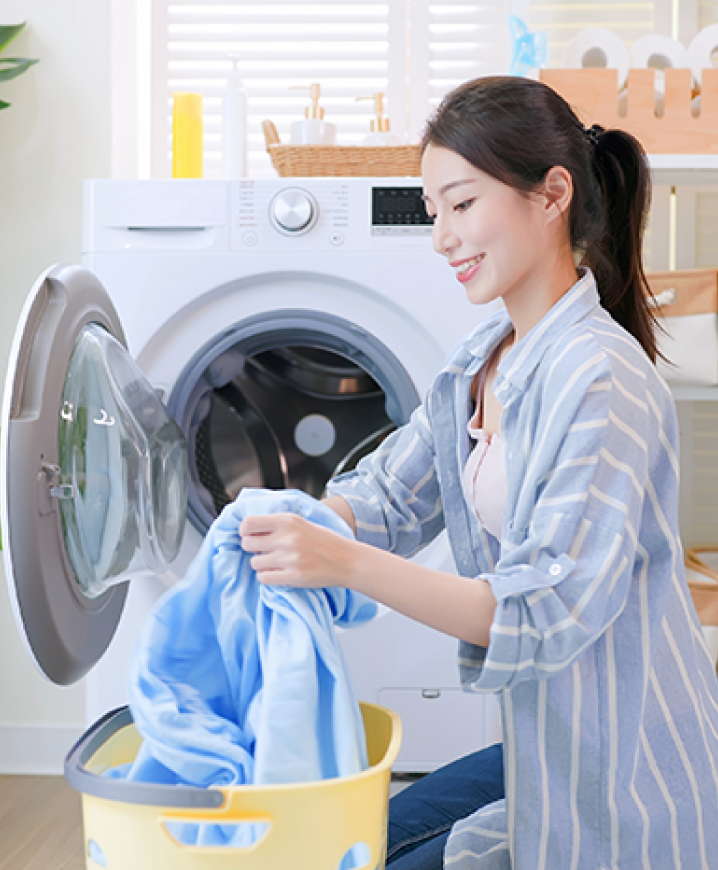
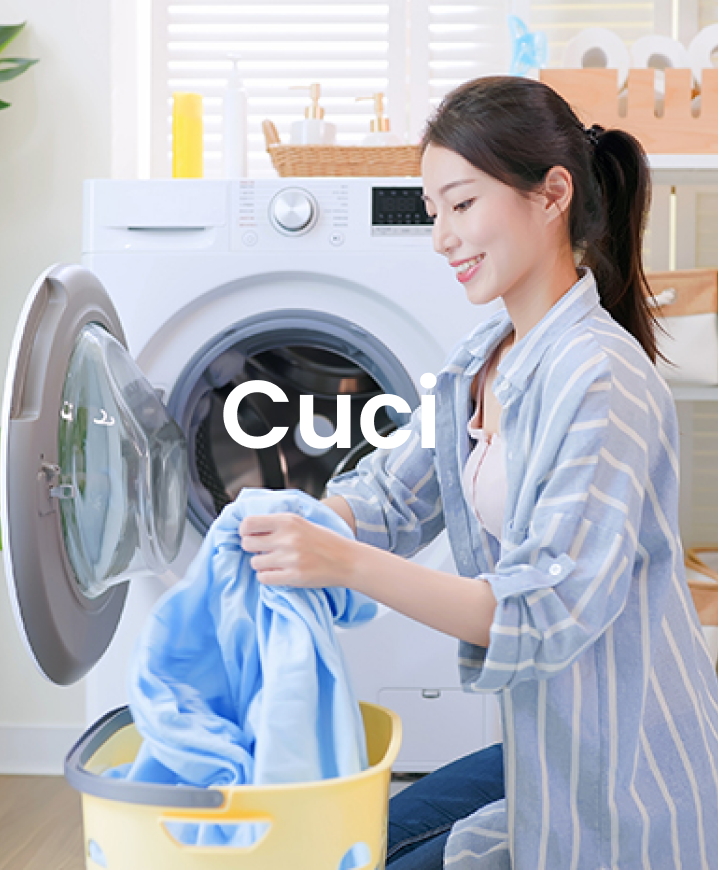
update index

Changed region(s): [[0.3064, 0.4034, 0.6128, 0.5276]]

diff --git a/index/index.html b/index/index.html
@@ -18,12 +18,12 @@
           <a class="navbar-brand" href="#">
             <img class=""src="logo-black.png" alt="logo-utama" id="logoutama">
           </a>
-          <button class="navbar-toggler" type="button" data-bs-toggle="collapse" data-bs-target="#navbarSupportedContent" aria-controls="navbarSupportedContent" aria-expanded="false" aria-label="Toggle navigation">
+          <button class="navbar-toggler" type="button" data-toggle="collapse" data-target="#navbarNav" aria-controls="navbarNav" aria-expanded="false" aria-label="Toggle navigation">
             <span class="navbar-toggler-icon"></span>
           </button>
-          <div class="collapse navbar-collapse mr-3" id="navbarNav">
+          <div class="mr-3 collapse navbar-collapse" id="navbarNav">
             <ul class="navbar-nav ms-auto">
-              <li class="nav-item ms-">
+              <li class="nav-item">
                 <a class="nav-link active" aria-current="page" href="#">Beranda</a>
               </li>
               <li class="nav-item">
@@ -56,33 +56,30 @@
         </div>
       </section>
 
-      <section class="services section-padding" id="services">
-        <div class="container">
-          <div class="row">
-            <div class="col-4 col-md-12 col-lg-4" style="padding-left:1px; padding-right: 1px;">
-              <div class="card text-white text-center pb-2 border-0">
-                <div class="card-body">
-                  <div class="img-area"><img alt="" class="" src="logo-cuci.png">
-                    <p>Cuci</p>
+      <section class="services section-padding" id="services" style="margin-top: 86px;">
+        <div class="container" style="">
+          <div class="row justify-content-center">
+            <div class="col-6 col-md-4 col-lg-4" style="max-width: 220px;">
+                <div class="card-body smallsect rounded">
+                  <div class="img-area"><img alt=""  src="logo-cuci.png">
+                    <p class="smallsect-text" style="display: inline-block;">Cuci</p>
                   </div>
                 </div>
-              </div>
             </div>
-            <div class="col-4 col-md-12 col-lg-4" style="padding-left:1px; padding-right: 1px;">
-              <div class="card text-white text-center pb-2 border-0">
-                <div class="card-body">
-                  <div class="img-"><img alt="" class="" src="logo-setrika.png">
-                  <p>Setrika</p></div>
+            <div class="col-6 col-md-4 col-lg-4" style="max-width: 220px;">
+                <div class="card-body smallsect rounded  ">
+                  <div class="img-area"><img alt="" src="logo-setrika.png">
+                  <p class="smallsect-text"style="display: inline-block;">Setrika</p></div>
                 </div>
-              </div>
             </div>
-            <div class="col-4 col-md-12 col-lg-4" style="padding-left:1px; padding-right: 1px;">
-              <div class="card text-black text-center pb-2 border-0">
-                  <div class="card-body">
-                    <img alt="card3" class="img-left" src="logo-lengkap.png">
-                    <p>Lengkap</p>
+            <div class="col-6 col-md-4 col-lg-4"  style="max-width: 220px;">
+                  <div class="card-body smallsect rounded ">
+                    <div class="img-area">
+                      <img alt="card3" src="logo-lengkap.png">
+                    <p class="smallsect-text" style="display: inline-block;">Lengkap</p>
+                    </div>
                   </div>
-                </div>
+                
               </div>
             </div>
           </div>
@@ -94,9 +91,9 @@
 
 
 
-      <section class="services section-padding" id="services">
+      <section class="services section-padding" id="services" style="margin-top: 140px; margin-bottom: 200px;">
         <div class="container">
-          <div class="row" style="margin-bottom: 70px;">
+          <div class="row" style="margin-bottom: 20px;">
             <div class="col-md-12">
               <div class="section-header pb-5">
                 <h2 class="lg:text-start text-center">Jenis Jasa Yang Di Inginkan
@@ -104,39 +101,30 @@
               </div>
             </div>
           </div>
-          <div class="row">
-            <div class="col-4 col-md-12 col-lg-4" style="padding-left:1px; padding-right: 1px;">
+          <div class="row justify-content-centerimage.png" style="">
+            <div class="col-4 col-md-4 col-lg-4" style="padding-left:1px; padding-right: 1px;">
               <div class="card text-white text-center pb-2 border-0">
                 <div class="card-body">
                   <div class="img-area">
-                    <img alt="" class="img-fluid rounded" src="card1.png">
-                    <div class="card-over-text fs-4">
-                      Cuci
-                    </div>
+                    <img alt="card1" class="img-fluid rounded" src="card1.png">
                   </div>
                 </div>
               </div>
             </div>
-            <div class="col-4 col-md-12 col-lg-4" style="padding-left:1px; padding-right: 1px;">
+            <div class="col-4 col-md-4 col-lg-4" style="padding-left:1px; padding-right: 1px;">
               <div class="card text-white text-center pb-2 border-0">
                 <div class="card-body">
                   <div class="img-area">
-                    <img alt="" class="img-fluid rounded" src="card2.png">
-                    <div class="card-over-text fs-4">
-                      Setrika
-                    </div>
+                    <img alt="card2" class="img-fluid rounded" src="card2.png">
                   </div>
                 </div>
               </div>
             </div>
-            <div class="col-4 col-md-12 col-lg-4" style="padding-left:1px; padding-right: 1px;">
+            <div class="col-4 col-md-4 col-lg-4" style="padding-left:1px; padding-right: 1px;">
               <div class="card text-white text-center pb-2 border-0">
                 <div class="card-body">
                   <div class="img-area area3">
                     <img alt="card3" class="img-fluid rounded" src="card3.png">
-                    <div class="card-over-text fs-4">
-                      Lengkap
-                    </div>
                     </div>
                   </div>
                 </div>
@@ -146,14 +134,14 @@
         </div>
       </section>
 
-      <section id="home2" class="mt-3 container">
+      <section id="home2" class="mt-3 container" style="margin-top: 5-rem;">
         <div class="container-fluid px-0 mid-banner">
           <div class="container">
             <div class="row">
-              <div class="col-lg-5 col-md-6 "style="margin-left: 30px;">
-                <h1 class="" >Cara penggunaan aplikasi kami yang sangat mudah</h1>
+              <div class="col-lg-5 col-md-6 "style="">
+                <h1 class="">Cara penggunaan aplikasi kami yang sangat mudah</h1>
                 <div class="mt-4">
-                  <p>
+                  <p class="md:text-center">
                     Aplikasi kami dapat di gunakan dari banyak kalangan karena family friendly, baik dari kalangan muda atau pun tua mudah dalam melakukan pemesanan
                   </p>
                 </div>
@@ -163,7 +151,7 @@
         </div>
       </section>
     
-      <section class="services section-padding" id="services" style="margin-top: 10rem;">
+      <section class="services section-padding" id="services" style="margin-top: 5rem;">
         <div class="container">
           <div class="row">
             <div class="col-md-12">
@@ -215,7 +203,7 @@
         </div>
       </section>
 
-      <section class="services section-padding" id="services" style="margin-top: 10rem;">
+      <section class="services section-padding reviewan" id="services" style="margin-top: 10rem;">
         <div class="container">
           <div class="row">
             <div class="col-md-12">
@@ -229,7 +217,7 @@
             <div class="col-12 col-md-12 col-lg-4">
               <div class="card text-black text-center pb-2 border-0">
                 <div class="card-body">
-                  <h3 class="text-middle">
+                  <h3 class="mainreview">
                     Apa Kata Banyak Orang Mengenai Aplikasi Kami
                   </h3>
                 </div>
@@ -288,64 +276,8 @@
               </div>
             </div>
           </div>
-          <div class="row">
-            <div class="col-4 col-md-12 col-lg-4 shadow-sm">
-              <div class="card profilecard text-black text-center pb-2 border-0">
-                
-                <img alt="" class="card-profile" src="harrel.png">
-                  
-                <div class="card-body text-center">
-                  <div class="name-job-review text-center">
-                    <p class="font-weight-bold mb-0">Xingfutang</p>
-                    <p class="font-weight-bold">Senior Developer</p>
-                  </div>
-                  <p te>
-                    ytta
-                  </p>
-                </div>
-                
-              </div>
-            </div>
-
-            <div class="col-4 col-md-12 col-lg-4 shadow-sm">
-              <div class="card profilecard text-black text-center pb-2 border-0">
-                
-                <img alt="" class="card-profile" src="harrel.png">
-                  
-                <div class="card-body text-center">
-                  <div class="name-job-review text-center">
-                    <p class="font-weight-bold mb-0">Xingfutang</p>
-                    <p class="font-weight-bold">Senior Developer</p>
-                  </div>
-                  <p te>
-                    ytta
-                  </p>
-                </div>
-                
-              </div>
-            </div>
-
-            <div class="col-4 col-md-12 col-lg-4 shadow-sm">
-              <div class="card profilecard text-black text-center pb-2 border-0">
-                
-                <img alt="" class="card-profile" src="harrel.png">
-                  
-                <div class="card-body text-center">
-                  <div class="name-job-review text-center">
-                    <p class="font-weight-bold mb-0">Xingfutang</p>
-                    <p class="font-weight-bold">Senior Developer</p>
-                  </div>
-                  <p te>
-                    ytta
-                  </p>
-                </div>
-                
-              </div>
-            </div>
-
-          </div>
           <div class="row justify-content-center gap-3">
-            <div class="col-3 col-md-12 col-lg-4 shadow-sm">
+            <div class="col-3 col-md-3 col-lg-2 shadow rounded">
               <div class="card profilecard text-black text-center pb-2 border-0">
                 
                 <img alt="" class="card-profile" src="harrel.png">
@@ -362,7 +294,8 @@
                 
               </div>
             </div>
-            <div class="col-3 col-md-12 col-lg-4 shadow-sm">
+
+            <div class="col-3 col-md-3 col-lg-2 shadow">
               <div class="card profilecard text-black text-center pb-2 border-0">
                 
                 <img alt="" class="card-profile" src="harrel.png">
@@ -372,14 +305,71 @@
                     <p class="font-weight-bold mb-0">Xingfutang</p>
                     <p class="font-weight-bold">Senior Developer</p>
                   </div>
-                  <p te>
+                  <p>
                     ytta
                   </p>
                 </div>
                 
               </div>
             </div>
+
+            <div class="col-3 col-md-3 col-lg-2 shadow">
+              <div class="card profilecard text-black text-center pb-2 border-0">
+                
+                <img alt="" class="card-profile" src="harrel.png">
+                  
+                <div class="card-body text-center">
+                  <div class="name-job-review text-center">
+                    <p class="font-weight-bold mb-0">Xingfutang</p>
+                    <p class="font-weight-bold">Senior Developer</p>
+                  </div>
+                  <p>
+                    ytta
+                  </p>
+                </div>
+                
+              </div>
+            </div>
+
+            <div class="col-3 col-md-3 col-lg-2 shadow">
+              <div class="card profilecard text-black text-center pb-2 border-0">
+                
+                <img alt="" class="card-profile" src="harrel.png">
+                  
+                <div class="card-body text-center">
+                  <div class="name-job-review text-center">
+                    <p class="font-weight-bold mb-0">Xingfutang</p>
+                    <p class="font-weight-bold">Senior Developer</p>
+                  </div>
+                  <p>
+                    ytta
+                  </p>
+                </div>
+                
+              </div>
+            </div>
+            <div class="col-3 col-md-3 col-lg-2 shadow">
+              <div class="card profilecard text-black text-center pb-2 border-0">
+                
+                <img alt="" class="card-profile" src="harrel.png">
+                  
+                <div class="card-body text-center">
+                  <div class="name-job-review text-center">
+                    <p class="font-weight-bold mb-0">Xingfutang</p>
+                    <p class="font-weight-bold">Senior Developer</p>
+                  </div>
+                  <p>
+                    ytta
+                  </p>
+                </div>
+                
+              </div>
+            </div>
+
           </div>
+      
+            
+
         </div>
       </section>
 

diff --git a/index/style.css b/index/style.css
@@ -6,6 +6,41 @@ footer {
 	padding: 86px 0;
 	margin-top: 80px;
 }
+.reviewan img{
+	max-width:70px;
+	padding-right: 10px;
+}
+.reviewan p1{
+	margin-top:10px;
+}
+.mainreview{
+	vertical-align:middle;
+	margin-right : 15%;
+	margin-left : 15%;
+}
+#navbarNav{
+	margin-right:100px;
+}
+.smallsect{
+	box-sizing: border-box;
+	width: 220px;
+	padding: 0px;
+	text-align: left;
+	max-width:220px;
+	height:60px;
+	vertical-align:middle;
+	margin:auto;
+	align-item:center;
+}
+.smallsect img{
+	width:40px;
+}
+.smallsect .img-area{
+	background: #DDFFFF;
+	margin: auto;
+	vertical-align:middle;
+
+}
 .main-btn{
 	padding:15px;
 	padding-left:20px;
@@ -78,8 +113,7 @@ footer {
 	margin-left : 15%;
 	text-align : left;
 }
-.name-job-review{
-	margin-left: 20px;
+.name-job-review{	
 }
 .area3{
 	position: relative;
@@ -221,9 +255,14 @@ footer {
 		margin-left:15px;
 		width:40%;
 	}
-	#hero2{
-		background-image : none;
-		background-color : blue;
+	.mid-banner{
+		width:100%;
+		background: none;
+		background-size:cover;
+		padding:16.875rem 0 9.375rem;
+	}
+	#home2{
+		margin-bottom:20px;
 	}
 	.navbar-nav {
 		text-align: center;
